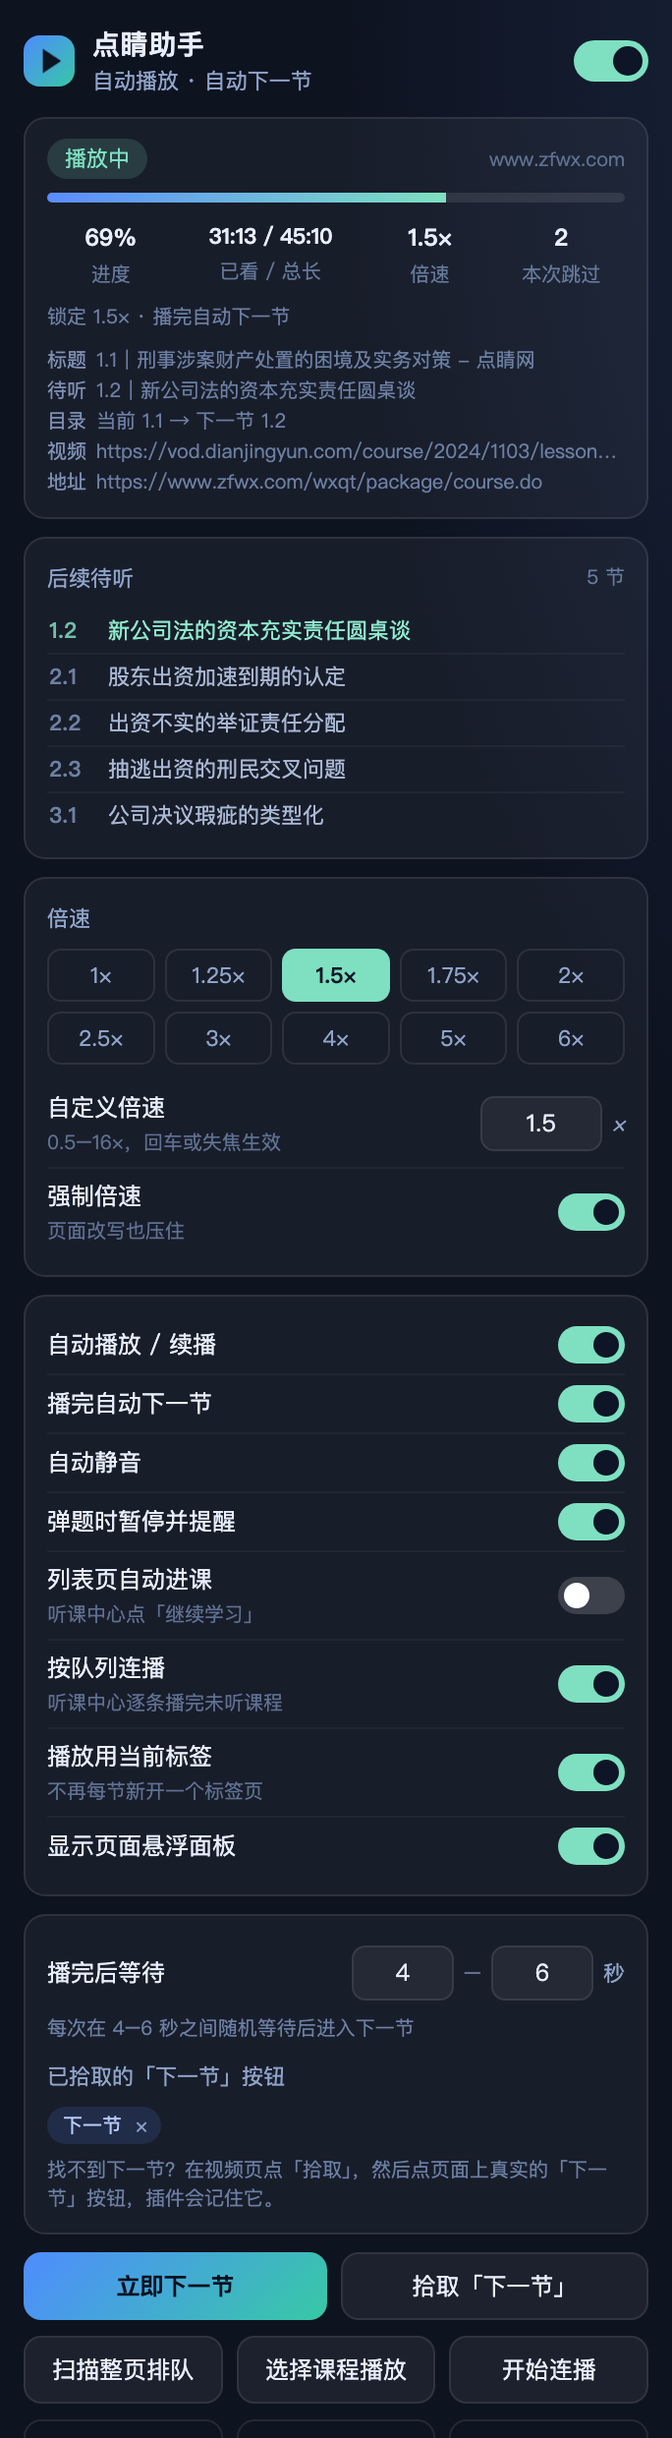
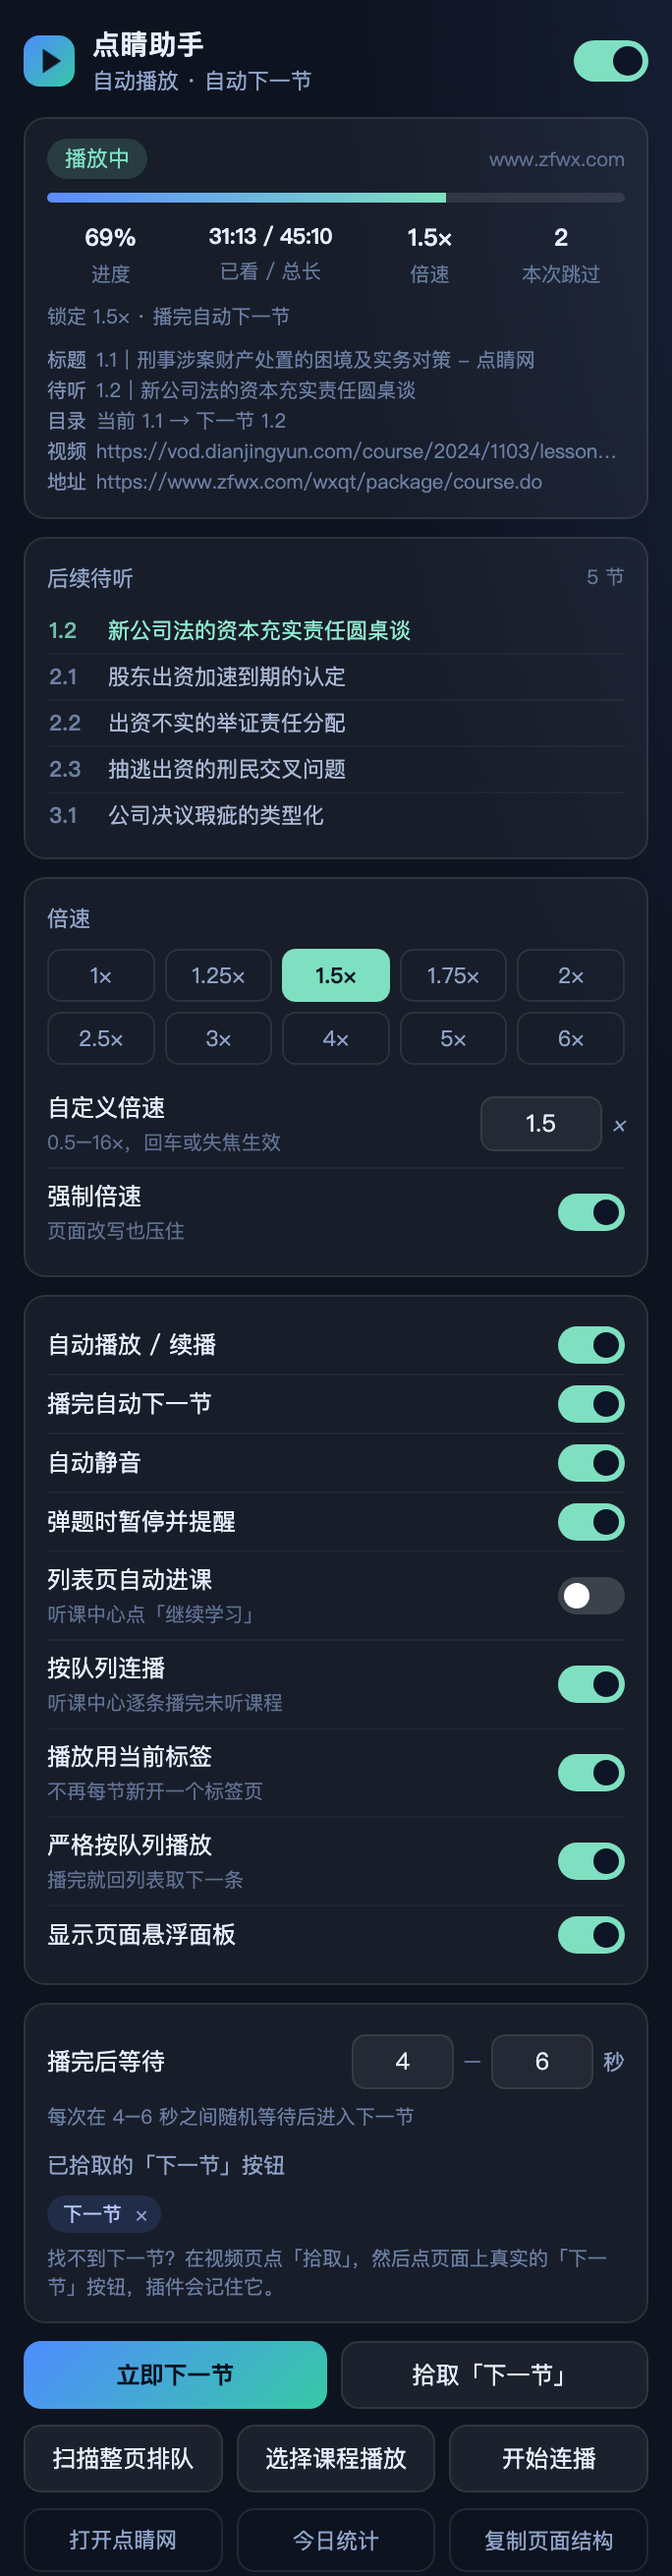
fix: 连播时严格按队列播放，不再被播放页目录带回第一条（v1.8.2）
- 新增 queueStrict 开关（默认开）：播完当前条即标记完成并回列表取下一条，不点播放页目录
- doNext 在「播完」时立刻把队列当前项写为 done，回列表不会重复点它
- 面板队列计数改为「剩 N / 共 M」，悬停显示当前处理项
- 同条重试冷却 10 分钟→3 分钟
- 测试 77 项

diff --git a/src/content.js b/src/content.js
@@ -9,7 +9,7 @@
   if (window.__DJZK_LOADED__) return;
   window.__DJZK_LOADED__ = true;
 
-  const VERSION = '1.8.1';
+  const VERSION = '1.8.2';
   const HOST_OK = (/(^|\.)zfwx\.com$/i.test(location.hostname) ||
     /(^|\.)dianjingyun\.com$/i.test(location.hostname)) ||
     location.hostname === 'localhost' || window.__DJZK_FORCE__ === true;
@@ -29,6 +29,7 @@
     autoList: false,
     listRun: true,      // 课程列表页按队列连播
     sameTab: true,      // 连播时把「播放」的新标签改成当前标签打开
+    queueStrict: true,  // 严格按队列播放：播完就回列表，不按页面目录跳
     pauseOnQuiz: true,    // 检测到弹题时暂停并提醒
     beep: true,           // 弹题时响一声
     showPanel: true,      // 显示右下角悬浮面板
@@ -612,6 +613,16 @@
     if (now() - lastClickAt < 2500) return false;
     lastClickAt = now();
     lastNextSig = videoSig;
+    /* 这一节已经播完 → 立刻把队列里对应的条目记为完成，避免回列表后又从这一条开始 */
+    const curItem = queue.curKey ? (queue.items || []).find((it) => it.key === queue.curKey) : null;
+    if (reason === '播完' && curItem && !curItem.done) { curItem.done = true; saveQueue(); }
+    /* 严格按队列：播完这一条就回列表取下一条，不按播放页的目录乱跳 */
+    if (reason === '播完' && curItem && S.queueStrict !== false) {
+      if (queueGotoList()) return true;
+      msg = '这一节听完了，正在等列表页接管下一条…';
+      report(true);
+      return false;
+    }
     const cands = collectCandidates();
     if (!cands.length) {
       if (queuePending().length && queueGotoList()) return true;
@@ -885,8 +896,8 @@
         if (row && row.pct >= 100) { it.done = true; saveQueue(); continue; }
         if (!row) { it.done = true; msg = '队列项在当前页找不到，已跳过：' + it.title.slice(0, 20); saveQueue(); continue; }
         /* 刚点过同一条（可能已在另一个标签页/窗口播放），10 分钟内不再开一次 */
-        if (it.key === queue.curKey && queue.lastAt && now() - queue.lastAt < 600000) {
-          const min = Math.ceil((600000 - (now() - queue.lastAt)) / 60000);
+        if (it.key === queue.curKey && queue.lastAt && now() - queue.lastAt < 180000) {
+          const min = Math.ceil((180000 - (now() - queue.lastAt)) / 60000);
           msg = '「' + it.title.slice(0, 22) + '」已打开，等它播完（' + min + ' 分钟后才允许重试）';
           render();
           return false;
@@ -1138,6 +1149,7 @@
       listMode,
       queueTotal,
       queueDone,
+      queueCur: ((queue.items || []).find((it) => it.key === queue.curKey) || {}).title || '',
       hasVideo: !!v,
       playing: !!(v && !v.paused && !v.ended),
       ended: !!(v && v.ended),
@@ -1379,11 +1391,13 @@
         }
         const upCount = st.upcomingTotal || ups.length;
         $('[data-f="upCount"]').textContent = st.listMode
-          ? (upCount ? (upCount + ' 条') : (st.queueTotal ? '0 条（共 ' + st.queueTotal + '）' : '未排队'))
+          ? (st.queueTotal ? ('剩 ' + upCount + ' / 共 ' + st.queueTotal) : '未排队')
           : (upCount ? upCount + ' 节' : '—');
         const scanRow = $('[data-f="scanRow"]');
         if (scanRow) scanRow.hidden = !st.listMode;
-        $('[data-f="upCount"]').title = ups.length < upCount ? '仅列出前 ' + ups.length + ' 节' : '';
+        $('[data-f="upCount"]').title = st.queueCur
+          ? '正在处理：' + st.queueCur
+          : (ups.length < upCount ? '仅列出前 ' + ups.length + ' 节' : '');
         $('[data-f="rate"]').textContent = fmtRate(st.rate || S.rate);
         $('[data-f="lessons"]').textContent = '本次 ' + lessonsDone + ' 节';
         $('.dot').classList.toggle('on', !!S.enabled);

diff --git a/src/popup.js b/src/popup.js
@@ -13,6 +13,7 @@ const DEFAULTS = {
   autoList: false,
   listRun: true,
   sameTab: true,
+  queueStrict: true,
   pauseOnQuiz: true,
   beep: true,
   showPanel: true,
@@ -93,7 +94,7 @@ async function save(patch) {
 
 function renderControls() {
   $('#enabled').checked = !!settings.enabled;
-  ['autoPlay', 'autoNext', 'autoMute', 'pauseOnQuiz', 'autoList', 'listRun', 'sameTab', 'showPanel', 'forceRate']
+  ['autoPlay', 'autoNext', 'autoMute', 'pauseOnQuiz', 'autoList', 'listRun', 'sameTab', 'queueStrict', 'showPanel', 'forceRate']
     .forEach((k) => { $('#' + k).checked = !!settings[k]; });
   const [lo, hi] = delayRange();
   $('#nextDelayMin').value = String(Math.round(lo / 100) / 10);
@@ -392,7 +393,7 @@ async function init() {
   renderControls();
 
   $('#enabled').addEventListener('change', (e) => save({ enabled: e.target.checked }));
-  ['autoPlay', 'autoNext', 'autoMute', 'pauseOnQuiz', 'autoList', 'listRun', 'sameTab', 'showPanel', 'forceRate']
+  ['autoPlay', 'autoNext', 'autoMute', 'pauseOnQuiz', 'autoList', 'listRun', 'sameTab', 'queueStrict', 'showPanel', 'forceRate']
     .forEach((k) => $('#' + k).addEventListener('change', (e) => save({ [k]: e.target.checked })));
   const onDelay = (which) => {
     const [curLo, curHi] = delayRange();

diff --git a/src/popup.html b/src/popup.html
@@ -76,6 +76,8 @@
       <label class="switch sm"><input type="checkbox" id="listRun" /><span class="slider"></span></label></label>
     <label class="line"><span>播放用当前标签<em>不再每节新开一个标签页</em></span>
       <label class="switch sm"><input type="checkbox" id="sameTab" /><span class="slider"></span></label></label>
+    <label class="line"><span>严格按队列播放<em>播完就回列表取下一条</em></span>
+      <label class="switch sm"><input type="checkbox" id="queueStrict" /><span class="slider"></span></label></label>
     <label class="line"><span>显示页面悬浮面板</span>
       <label class="switch sm"><input type="checkbox" id="showPanel" /><span class="slider"></span></label></label>
   </section>
@@ -116,7 +118,7 @@
 
   <footer>
     <span id="footNote">仅辅助播放，请遵守点睛网学习规则</span>
-    <span id="ver">v1.8.1</span>
+    <span id="ver">v1.8.2</span>
   </footer>
 
   <div class="toast" id="toast" hidden></div>

diff --git a/src/background.js b/src/background.js
@@ -16,6 +16,7 @@ const DEFAULTS = {
   autoList: false,
   listRun: true,
   sameTab: true,
+  queueStrict: true,
   pauseOnQuiz: true,
   beep: true,
   showPanel: true,

diff --git a/tools/preview.py b/tools/preview.py
@@ -20,7 +20,7 @@ window.chrome = {
     local: {
       get: async (d) => {
         const settings = { enabled: true, autoPlay: true, autoNext: true, autoMute: true, rate: 1.5,
-          forceRate: true, endThreshold: 1.5, nextDelayMinMs: 4000, nextDelayMaxMs: 6000, autoList: false, listRun: true, sameTab: true, pauseOnQuiz: true,
+          forceRate: true, endThreshold: 1.5, nextDelayMinMs: 4000, nextDelayMaxMs: 6000, autoList: false, listRun: true, sameTab: true, queueStrict: true, queueStrict: true, pauseOnQuiz: true,
           beep: true, showPanel: true, panelPos: null,
           customSelectors: [{ sel: '#nextBtn', text: '下一节', host: 'www.zfwx.com' }] };
         return { djzk_settings: settings, djzk_stats: { date: '2026-11-03', lessons: 6 } };
@@ -59,7 +59,7 @@ window.chrome = {
   storage: {
     local: {
       get: (d, cb) => cb({ djzk_settings: { enabled: true, autoPlay: true, autoNext: true, autoMute: true,
-        rate: 1.5, forceRate: true, endThreshold: 1.5, nextDelayMinMs: 4000, nextDelayMaxMs: 6000, autoList: false, listRun: true, sameTab: true,
+        rate: 1.5, forceRate: true, endThreshold: 1.5, nextDelayMinMs: 4000, nextDelayMaxMs: 6000, autoList: false, listRun: true, sameTab: true, queueStrict: true,
         pauseOnQuiz: true, beep: false, showPanel: true, panelPos: null, customSelectors: [] } }),
       set: () => {}
     },
@@ -269,7 +269,7 @@ def main():
         build_panel(work)
         build_list(work)
         run_chrome("file://" + os.path.join(work, "popup.html"),
-                   os.path.join(DOCS, "popup.png"), "342,1240")
+                   os.path.join(DOCS, "popup.png"), "342,1310")
         run_chrome("file://" + os.path.join(work, "panel.html"),
                    os.path.join(DOCS, "panel.png"), "1160,780")
         run_chrome("file://" + os.path.join(work, "list.html"),

diff --git a/README.md b/README.md
@@ -128,6 +128,13 @@
 **点了下一节但视频没换？**
 说明识别到的按钮不是真正的切换按钮：用「拾取」重新指定。面板状态里会提示重试。
 
+**为什么播完总跳回「1.1 的问题1」/ 老在第一条上打转？**
+播放页右侧目录和列表页的队列**不是同一层**：目录里是 `1.1、1.2…` 这样的章节/小节，队列里是「问题一、问题二…」这种课程视频项。旧逻辑在播完一节后会去点播放页目录的「下一节」，容易落到目录的第一条（1.1 的问题1）。
+
+v1.8.2 起新增开关「**严格按队列播放**」（默认开）：连播时**播完当前这一条就回列表取下一条**，完全不碰播放页的目录，顺序始终由队列决定；同时「播完」的那一刻就把该条标记为完成，回列表不会又从它开始。
+
+想恢复「在播放页里顺着目录连听」的行为，把这个开关关掉即可。
+
 **为什么每跳一节就多一个标签页，最后 Chrome 里堆一堆？**
 点睛网的「播放」按钮内部是 `window.open(...)`，所以在列表页每点一次就开一个新标签。v1.8.0 起，插件在**页面世界**注入 [src/same-tab.js](src/same-tab.js)，在连播期间把同源的 `window.open` 改写成 `location.href`（当前标签内跳转），并返回一个「假 window」防止站点代码 `window.open(...).focus()` 报错：
 
@@ -193,7 +200,7 @@ npm run preview
 npm run icons
 ```
 
-测试覆盖：面板注入、自动播放/静音/倍速、强制倍速（页面世界接管、实例改写、关闭后放开）、静音恢复、「下一节」识别与自动点击、跳过节数上报、随机等待区间与旧设置迁移、弹题暂停、设置联动、拾取优先级、目录模式（含高亮小节反推章节、折叠章节两步点击）、识别结果展示（标题/待听/目录/视频源/后续待听列表）、后台状态汇总/命令路由/统计与清理（共 75 项断言）。
+测试覆盖：面板注入、自动播放/静音/倍速、强制倍速（页面世界接管、实例改写、关闭后放开）、静音恢复、「下一节」识别与自动点击、跳过节数上报、随机等待区间与旧设置迁移、弹题暂停、设置联动、拾取优先级、目录模式（含高亮小节反推章节、折叠章节两步点击）、识别结果展示（标题/待听/目录/视频源/后续待听列表）、后台状态汇总/命令路由/统计与清理（共 77 项断言）。
 
 目录结构：
 
